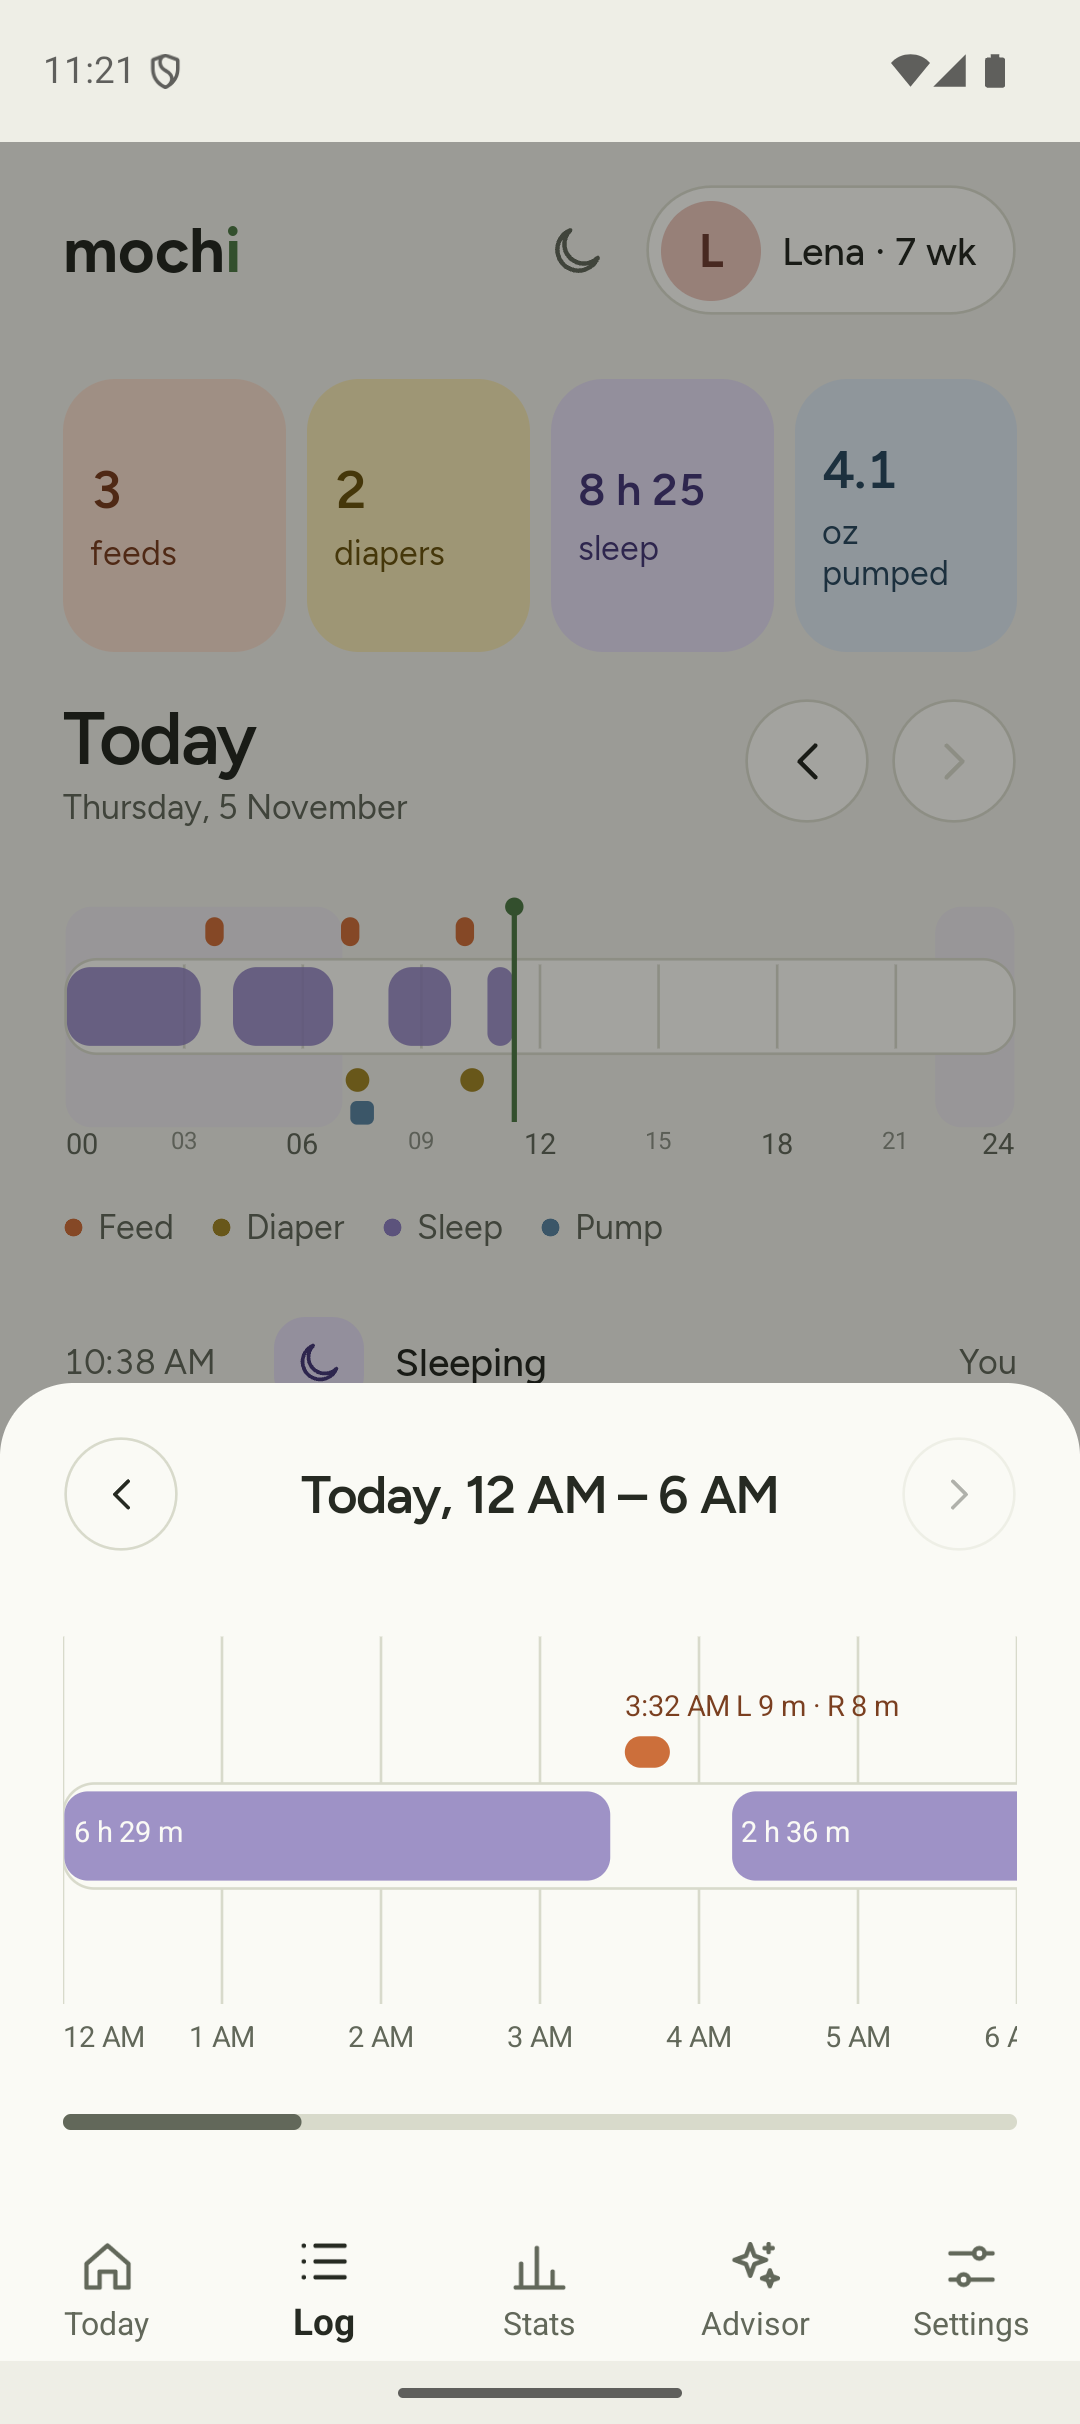
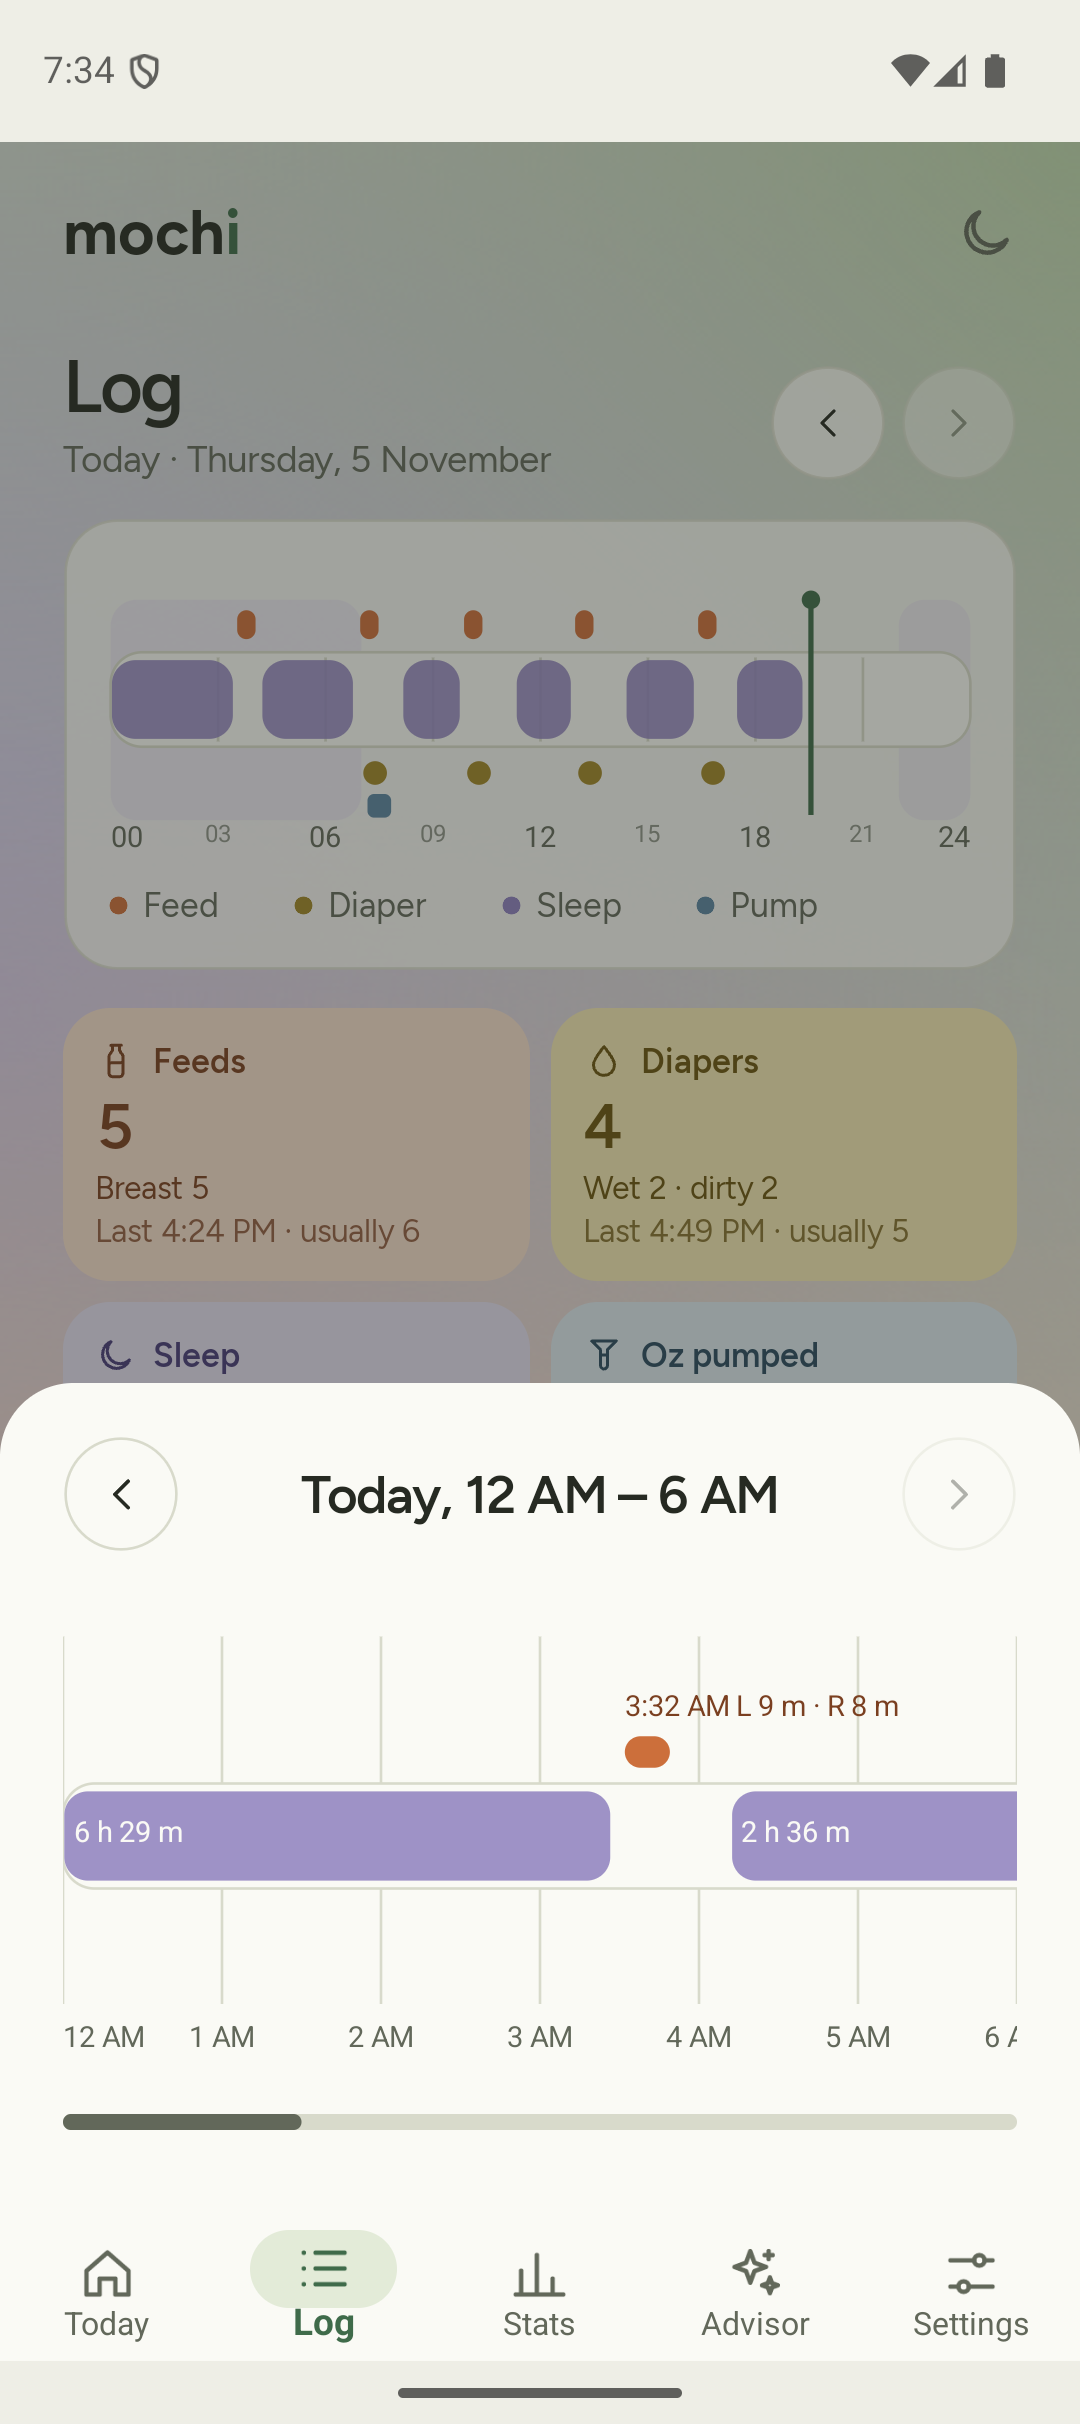
Store screenshots of the new layout, a compact History button, no mixed diapers in the demo, changelog for the redesign

diff --git a/src/Mobile/Coo.Mobile.Application/Demo/SeedDemoLog.cs b/src/Mobile/Coo.Mobile.Application/Demo/SeedDemoLog.cs
@@ -97,7 +97,12 @@ public sealed class SeedDemoLog(EnsureProvisionalHousehold households, IHousehol
             for (var cycle = 0; cycle < 4; cycle++)
             {
                 day.Add(Breast(t, 8 + random.Next(7), 6 + random.Next(7), cycle % 2 == 0));
-                day.Add(Diaper(t.AddMinutes(25), cycle is 1 or 3 ? (random.Next(3) == 0 ? DiaperContents.Mixed : DiaperContents.Dirty) : DiaperContents.Wet));
+                // Wet or dirty only, as the diaper form offers (owner, 2026-11-05: no "mixed"). The draw stays, so the
+                // rest of the made-up weeks come out as before.
+                var dirty = cycle is 1 or 3;
+                if (dirty)
+                    _ = random.Next(3);
+                day.Add(Diaper(t.AddMinutes(25), dirty ? DiaperContents.Dirty : DiaperContents.Wet));
                 var napStart = t.AddMinutes(60 + random.Next(30));
                 var napEnd = napStart.AddMinutes(napLength + random.Next(-20, 25));
                 day.Add(Sleep(napStart, napEnd));

diff --git a/src/Mobile/Coo.Mobile/Pages/AdvisorPage.cs b/src/Mobile/Coo.Mobile/Pages/AdvisorPage.cs
@@ -67,7 +67,8 @@ public sealed class AdvisorPage : ContentPage
         };
         historyIcon.SetDynamicResource(Label.TextColorProperty, "Ink");
 
-        var historyButton = Ui.Rounded(historyIcon, "Glass", 999, new Thickness(12, 6), "GlassLine");
+        var historyButton = Ui.Rounded(historyIcon, "Glass", 999, new Thickness(14, 6), "GlassLine");
+        historyButton.HorizontalOptions = LayoutOptions.Start;
         historyButton.GestureRecognizers.Add(new TapGestureRecognizer
         {
             Command = new Command(() => _model.ToggleHistoryCommand.Execute(null))

diff --git a/CHANGELOG.md b/CHANGELOG.md
@@ -32,13 +32,25 @@ app name, descriptions, icon, feature graphic and screenshots from `store-assets
 - **New colours**: the buttons and links are matcha green, and pumping is now sky blue, so it never looks like a
   button. The splash screen and the "mochi" wordmark at the top of every tab follow.
 - **The privacy policy** moves to `lechdigital.nl/projects/mochi/privacy` (the old address forwards there).
+- **A calmer, tidier layout on every tab**: a soft colour wash behind the pages (day and night) with glass cards over
+  it, one top bar everywhere (the baby chip is gone; the day/night switch sits at the far right), big page titles,
+  grouped lists in Settings and Stats, and the chosen tab on a soft green pill.
+  - **Today**: the sleep timer and Mochi share one card; "Tell Mochi" and "Log something" are two equal buttons, and
+    "Log something" opens one sheet for everything (now or earlier, care and health).
+  - **Log**: each total says what it is made of and how it compares with a usual day ("Last 9:52 AM · usually 6").
+  - **Stats**: the average day lists each kind with its icon; growth, the sleep plan and the milk stash sit under More.
+  - **Premium**: the benefits with icons, and the plans side by side.
+  - **Night**: the timer on a glass card with sleeping Mochi; no second "Woke up" button.
+  - **Switching day and night** shows Mochi in the new colours for a moment instead of a half-repainted screen.
+- **The milk stash** holds bottles and containers as well as bags.
+- **Diapers** are wet or dirty; the colour and "mixed" are gone from the form.
 
 ### Fixed
 - **Changing the text size in Android's settings** while the app was open closed it ("keeps stopping").
 - **Large text and small phones** (checked as a OnePlus 8 Pro and a 360 dp phone at 1.3× text):
   - the four tiles on Today and the day's totals in the Log go two by two instead of cutting "Diaper" or breaking
     "pumped" in the middle
-  - "Tell Mochi" is never cut short: Health and Earlier… move to the next line instead
+  - "Tell Mochi" and "Log something" are never cut short: with large text they go one under the other
   - the Log's times stay on one line
   - the night screen keeps "Last feed" on one line
   - the birth date shows as "17 Sep 2026" instead of a long date cut off at the end
